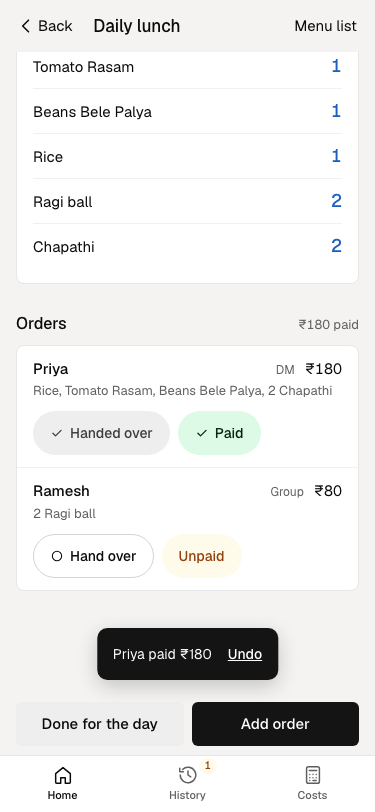
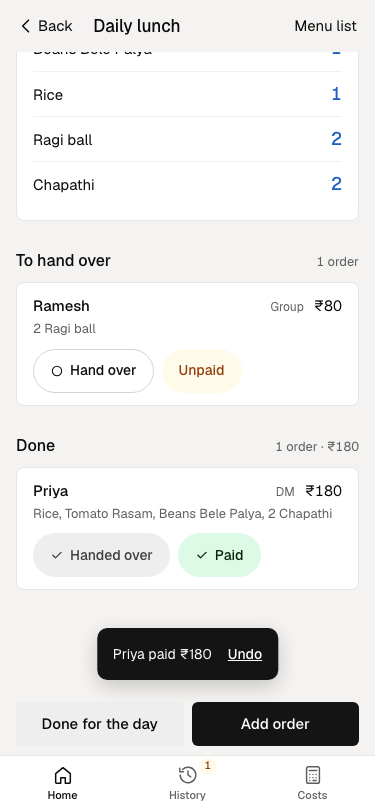
Show how much to make, what's left to hand over, and split orders by hand-over

diff --git a/site/public/index.html b/site/public/index.html
@@ -121,6 +121,18 @@ button.row:hover{background:color-mix(in srgb,var(--raised) 45%,transparent)}
 .strip{display:grid;grid-template-columns:repeat(3,1fr)}
 .strip > div{padding:12px 14px}
 .strip > div + div{border-left:1px solid var(--border)}
+.strip.four{grid-template-columns:1fr 1fr}
+.strip.four > div:nth-child(3){border-left:0}
+.strip.four > div:nth-child(n+3){border-top:1px solid var(--border)}
+.strip.four .v{white-space:normal;line-height:1.25}
+.leftbox{margin-top:10px;border:1.5px solid var(--hue);border-radius:var(--radius-card);padding:12px 14px;background:color-mix(in srgb,var(--hue) 7%,var(--surface))}
+.leftbox .lb-h{display:flex;align-items:baseline;justify-content:space-between;gap:10px;flex-wrap:wrap}
+.leftbox .lb-h span{font-weight:500}
+.leftbox .lb-h b{color:var(--hue);font-weight:500;font-size:17px}
+.leftbox .lb-items{display:flex;flex-wrap:wrap;gap:4px 14px;margin-top:6px;font-size:var(--fs-small);color:var(--muted)}
+.leftbox .lb-items b{color:var(--text);font-weight:500}
+.leftbox.done{border-color:var(--border);background:var(--surface)}
+.leftbox.done .lb-h b{color:var(--muted)}
 .strip .lab{font-size:var(--fs-small);color:var(--muted)}
 .strip .v{font-size:20px;font-weight:500;margin-top:2px;white-space:nowrap}
 .strip .v.money{font-weight:700}
@@ -264,7 +276,7 @@ input:focus{outline:2px solid var(--hue);outline-offset:-1px;border-color:transp
 <input type="file" id="fileIn" accept="application/json,.json" hidden>
 <script>
 "use strict";
-var BUILD="v2.1 — costs tab · 2026-10-25";
+var BUILD="v2.2 — orders split by hand-over · 2026-10-28";
 var KEY="southsavory.v2";
 /* Starting menu lists, pulled from the old app (south-savory-tally.html):
    lunch dishes from its SEED list; prices only where the old app had his own figure
@@ -508,10 +520,11 @@ function orderWhat(ev,o){
 }
 
 /* the kitchen count */
-function kitchenCount(ev){
+function kitchenCount(ev,only){
   var by={};
   ev.items.forEach(function(it){ by[it.id]={it:it,q:0,top:0}; });
   ev.orders.forEach(function(o){
+    if(only&&!only(o)) return;
     (o.lines||[]).forEach(function(ln){
       var q=Number(ln.qty)||0; if(!q) return;
       if(isCombo(ln.ref)){ var c=evCombo(ev,ln.ref); if(c) c.dishes.forEach(function(d){ if(by[d]) by[d].q+=q; }); return; }
@@ -728,6 +741,15 @@ function toggleHoliday(d){
   save(); render(); toast(S.holidays[d]?fmtDate(d)+" marked a holiday":"Holiday removed");
 }
 
+/* how much, in the units the kitchen works in: "12 portions", "4.5 kg", "3 kg · 10 pieces" */
+function qtyText(ev,kc){
+  var t={};
+  kc.forEach(function(c){ if(!c.q) return;
+    var u=ev.kind==="batter"||(ev.kind==="drop"&&c.it.unit==="kg")?"kg":(ev.kind==="drop"&&c.it.unit==="piece")?"pc":"portion";
+    t[u]=(t[u]||0)+c.q; });
+  var out=[]; if(t.portion) out.push(plural(Math.round(t.portion*100)/100,"portion")); if(t.kg) out.push(fmtKg(t.kg)); if(t.pc) out.push(plural(t.pc,"piece"));
+  return out.join(" · ")||"0";
+}
 /* shared body for an event: totals, the kitchen count, the orders */
 function eventBody(ev){
   var st=eventStats(ev), kc=kitchenCount(ev);
@@ -744,14 +766,36 @@ function eventBody(ev){
   }).join("");
   var miss=ev.orders.some(function(o){return o.lines.some(function(l){return lineMissingPrice(ev,l);});});
   var orders=ev.orders.slice().sort(function(a,b){return (a.t||0)-(b.t||0);});
-  return '<div class="section"><div class="card strip num"><div><div class="lab">Orders</div><div class="v">'+st.n+'</div></div>'+
+  var makeWord={lunch:"To cook",custom:"To cook",batter:"To make",drop:"To pack"}[ev.kind];
+  var real=ev.orders.filter(function(o){return !o.untracked;}), left=real.filter(function(o){return !o.delivered;});
+  var leftBox='';
+  if(real.length&&left.length<real.length){
+    var lkc=kitchenCount(ev,function(o){return !o.untracked&&!o.delivered;}).filter(function(c){return c.q;});
+    leftBox=left.length?'<div class="leftbox"><div class="lb-h"><span>Still to hand over</span><b class="num">'+plural(left.length,"order")+' · '+esc(qtyText(ev,lkc))+'</b></div>'+
+        '<div class="lb-items">'+lkc.map(function(c){ var kgU=ev.kind==="batter"||(ev.kind==="drop"&&c.it.unit==="kg"); return '<span>'+esc(c.it.name)+' <b class="num">'+(kgU?fmtKg(c.q):c.q)+'</b></span>'; }).join("")+'</div></div>'
+      :'<div class="leftbox done"><div class="lb-h"><span>Everything handed over</span><b class="num">'+plural(real.length,"order")+'</b></div></div>';
+  }
+  return '<div class="section"><div class="card strip four num"><div><div class="lab">Orders</div><div class="v">'+st.n+'</div></div>'+
+      '<div><div class="lab">'+makeWord+'</div><div class="v">'+esc(qtyText(ev,kc))+'</div></div>'+
       '<div><div class="lab">Total</div><div class="v money">'+rupee(st.total)+'</div></div>'+
-      '<div><div class="lab">Unpaid</div><div class="v">'+rupee(st.unpaid)+'</div></div></div>'+
+      '<div><div class="lab">Unpaid</div><div class="v">'+rupee(st.unpaid)+'</div></div></div>'+leftBox+
       (miss?'<p class="notice" style="margin-top:10px">Some items have no price yet, so the total is short. Set prices in the menu list or on the order.</p>':'')+'</div>'+
     '<div class="section"><h2>'+countTitle+'<span class="aside">'+(ev.kind==="lunch"&&ev.combos&&ev.combos.length?"combos counted as dishes":"")+'</span></h2>'+
       (kc.length?'<div class="card pad count">'+rows+'</div>':'<p class="empty">No items on this menu.</p>')+'</div>'+
-    '<div class="section"><h2>Orders<span class="aside num">'+(st.n?rupee(st.paid)+" paid":"")+'</span></h2>'+
-      (orders.length?'<div class="list">'+orders.map(function(o){return orderRow(ev,o);}).join("")+'</div>':'<p class="empty">No orders yet. Tap Add order when one comes in on WhatsApp.</p>')+'</div>';
+    orderSections(ev,orders);
+}
+/* orders still to hand over first, then handed over but unpaid, then done */
+function orderSections(ev,orders){
+  if(!orders.length) return '<div class="section"><h2>Orders</h2><p class="empty">No orders yet. Tap Add order when one comes in on WhatsApp.</p></div>';
+  var toGo=orders.filter(function(o){return !o.delivered;});
+  var owe=orders.filter(function(o){return o.delivered&&!o.paid&&!o.untracked;});
+  var done=orders.filter(function(o){return o.delivered&&(o.paid||o.untracked);});
+  toGo.sort(function(a,b){ return (a.paid?1:0)-(b.paid?1:0)||(a.t||0)-(b.t||0); });
+  function sec(title,list,aside){ return list.length?'<div class="section"><h2>'+title+'<span class="aside num">'+aside+'</span></h2><div class="list">'+list.map(function(o){return orderRow(ev,o);}).join("")+'</div></div>':''; }
+  function sum(list){ return rupee(list.reduce(function(a,o){return a+orderTotal(ev,o);},0)); }
+  return sec("To hand over",toGo,plural(toGo.length,"order"))+
+    sec("Handed over, not paid",owe,sum(owe))+
+    sec("Done",done,plural(done.length,"order")+" · "+sum(done));
 }
 function priceDesc(it){
   if(it.rate===null||it.rate===undefined||it.rate==="") return "No price yet";
